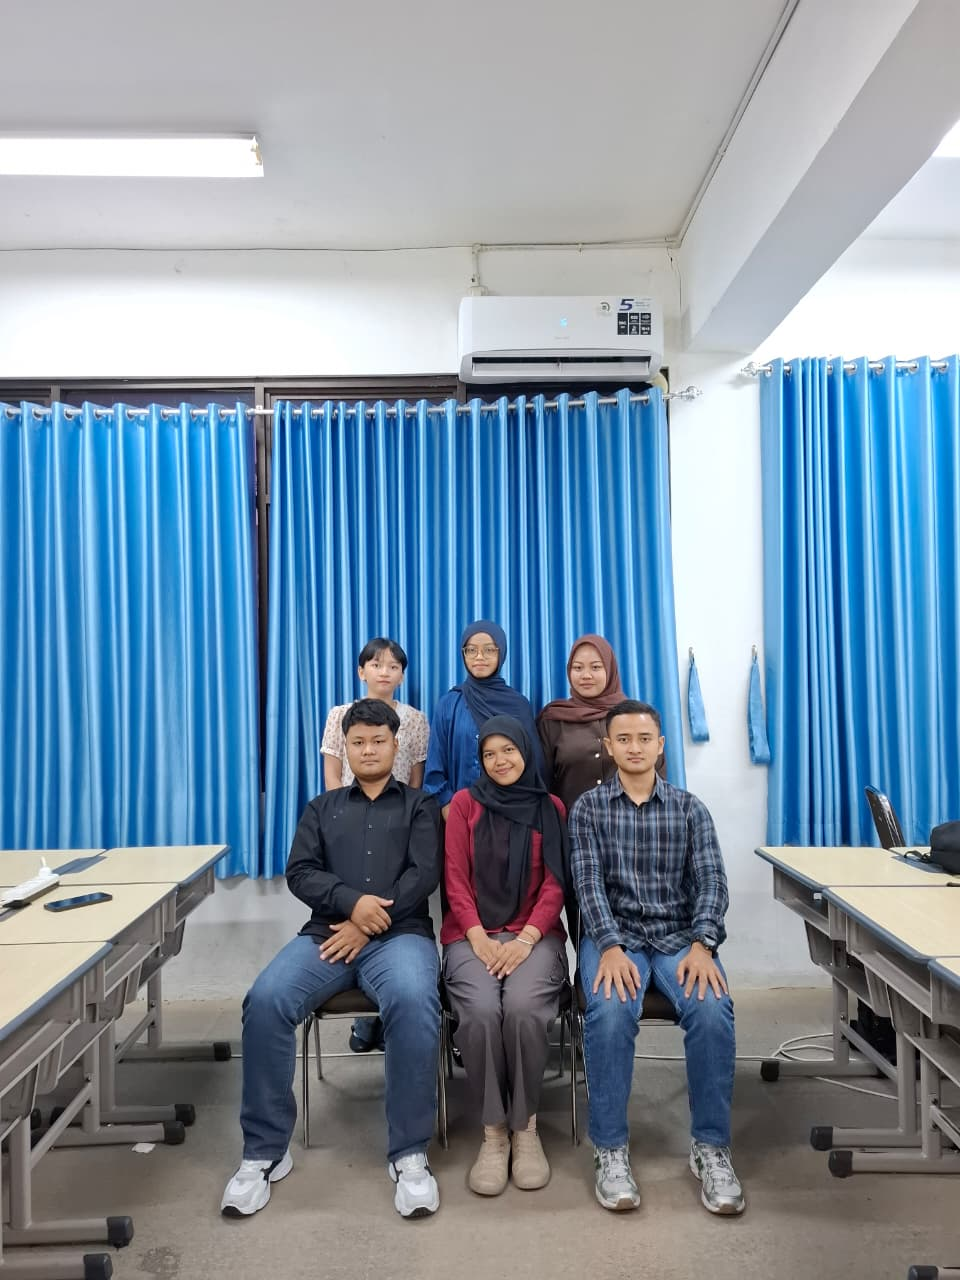
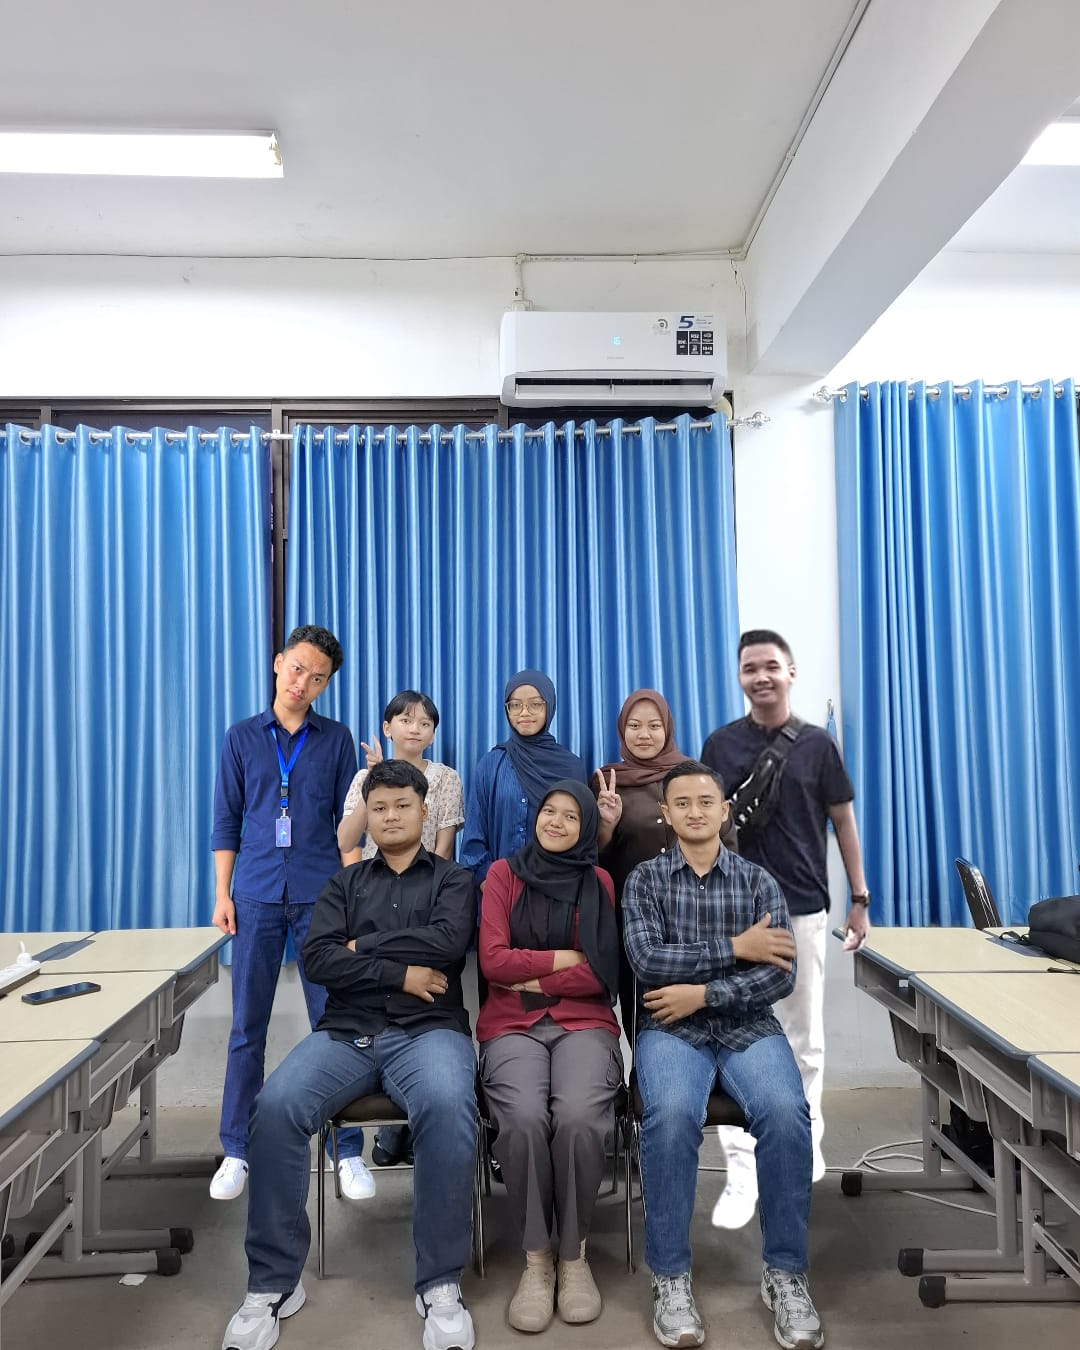
febri

diff --git a/portofolio.html b/portofolio.html
@@ -66,7 +66,7 @@
           <!-- AWAL CARD PROJECT -->
           <!-- CARD PROJECT: Website Portofolio Kelompok (project ini sendiri) -->
           <div class="card">
-            <img src="assets/img/foto 2.jpeg" alt="Website Portofolio Kelompok C#" class="card-image" />
+            <img src="assets/img/foto 1.jpeg" alt="Website Portofolio Kelompok C#" class="card-image" />
             <div class="card-body">
               <h3>Website Portofolio Kelompok</h3>
               <p class="card-meta">2026 &bull; HTML, CSS, JavaScript</p>
@@ -167,55 +167,55 @@
           </div>
 
           <div class="card">
-            <img src="assets/img/nopal st 1.jpeg" alt="Sertifikat MySQL Database - Nopal" class="card-image" />
+            <img src="assets/img/nopal st 1.jpeg" alt="Sertifikat MySQL Database - Naufal" class="card-image" />
             <div class="card-body">
               <h3>MySQL database </h3>
-              <p class="card-meta">Cursa &bull; 2026 &bull; oleh Nopal</p>
+              <p class="card-meta">Cursa &bull; 2026 &bull; oleh Naufal</p>
               <a href="https://drive.google.com/file/d/174fKXXzKe1pD82awNHP9fdlRTV0m4YyW/view?usp=sharing" target="_blank" class="btn-outline">Lihat Sertifikat</a>
             </div>
           </div>
 
           <div class="card">
-            <img src="assets/img/nopal st 2.jpeg" alt="Sertifikat Software Testing for Beginners - Nopal" class="card-image" />
+            <img src="assets/img/nopal st 2.jpeg" alt="Sertifikat Software Testing for Beginners - Naufal" class="card-image" />
             <div class="card-body">
               <h3>Software testing for beginners</h3>
-              <p class="card-meta">Cursa &bull; 2026 &bull; oleh Nopal</p>
+              <p class="card-meta">Cursa &bull; 2026 &bull; oleh Naufal</p>
               <a href="https://drive.google.com/file/d/1NHjQo0skHQZPJdoxJDG1up3EueyiJxZR/view?usp=sharing" target="_blank" class="btn-outline">Lihat Sertifikat</a>
             </div>
           </div>
 
           <div class="card">
-            <img src="assets/img/nopal st 3.jpeg" alt="Sertifikat Cyber Security - Nopal" class="card-image" />
+            <img src="assets/img/nopal st 3.jpeg" alt="Sertifikat Cyber Security - Naufal" class="card-image" />
             <div class="card-body">
               <h3>Cyber security</h3>
-              <p class="card-meta">Cursa &bull; 2026 &bull; oleh Nopal</p>
+              <p class="card-meta">Cursa &bull; 2026 &bull; oleh Naufal</p>
               <a href="https://drive.google.com/file/d/1JXgF26hB8nqZS2e9PHN59x3NN3K-ytPh/view?usp=sharing" target="_blank" class="btn-outline">Lihat Sertifikat</a>
             </div>
           </div>
 
           <div class="card">
-            <img src="assets/img/nopal st 4.jpeg" alt="Sertifikat Java Object Oriented Programming - Nopal" class="card-image" />
+            <img src="assets/img/nopal st 4.jpeg" alt="Sertifikat Java Object Oriented Programming - Naufal" class="card-image" />
             <div class="card-body">
-              <h3>Java object Oriented Programming</h3>
-              <p class="card-meta">Cursa &bull; 2026 &bull; oleh Nopal</p>
+              <h3>Java Object Oriented Programming</h3>
+              <p class="card-meta">Cursa &bull; 2026 &bull; oleh Naufal</p>
               <a href="https://drive.google.com/file/d/1o3O7E6TOC0NQ62mp4BzZFBSAA0Oh-Lnm/view?usp=sharing" target="_blank" class="btn-outline">Lihat Sertifikat</a>
             </div>
           </div>
 
           <div class="card">
-            <img src="assets/img/nopal st 5.jpeg" alt="Sertifikat C for Beginners - Nopal" class="card-image" />
+            <img src="assets/img/nopal st 5.jpeg" alt="Sertifikat C for Beginners - Naufal" class="card-image" />
             <div class="card-body">
               <h3>C for beginners</h3>
-              <p class="card-meta">Cursa &bull; 2026 &bull; oleh Nopal</p>
+              <p class="card-meta">Cursa &bull; 2026 &bull; oleh Naufal</p>
               <a href="https://drive.google.com/file/d/1ooH-M-srKIAs8RVf9l0Snq_Q8bpjij2X/view?usp=sharing" target="_blank" class="btn-outline">Lihat Sertifikat</a>
             </div>
           </div>
 
           <div class="card">
-            <img src="assets/img/nopal st 6.jpeg" alt="Sertifikat Android for Beginners - Nopal" class="card-image" />
+            <img src="assets/img/nopal st 6.jpeg" alt="Sertifikat Android for Beginners - Naufal" class="card-image" />
             <div class="card-body">
               <h3>Android for beginners</h3>
-              <p class="card-meta">Cursa &bull; 2026 &bull; oleh Nopal</p>
+              <p class="card-meta">Cursa &bull; 2026 &bull; oleh Naufal</p>
               <a href="https://drive.google.com/file/d/1JLjovHEoa5EkMYIAvaFIlW1TKOq0na8e/view?usp=sharing" target="_blank" class="btn-outline">Lihat Sertifikat</a>
             </div>
           </div>

diff --git a/contact.html b/contact.html
@@ -114,7 +114,7 @@
         </div>
 
         <div class="member-card">
-          <img src="assets/img/foto beryl.jpg" alt="Foto Beryl Bachruddin" class="member-photo" />
+          <img src="assets/img/foto beryl.jpeg" alt="Foto Beryl Bachruddin" class="member-photo" />
           <h3>Beryl Bachruddin</h3>
           <p class="member-role">Anggota 6</p>
           <div class="member-links">

diff --git a/index.html b/index.html
@@ -45,7 +45,7 @@
       </div>
  
       <div class="hero-photo">
-        <img src="assets/img/foto 1.jpeg" alt="Foto Kelompok C#" />
+        <img src="assets/img/foto 2.jpeg" alt="Foto Kelompok C#" />
       </div>
  
     </div>
